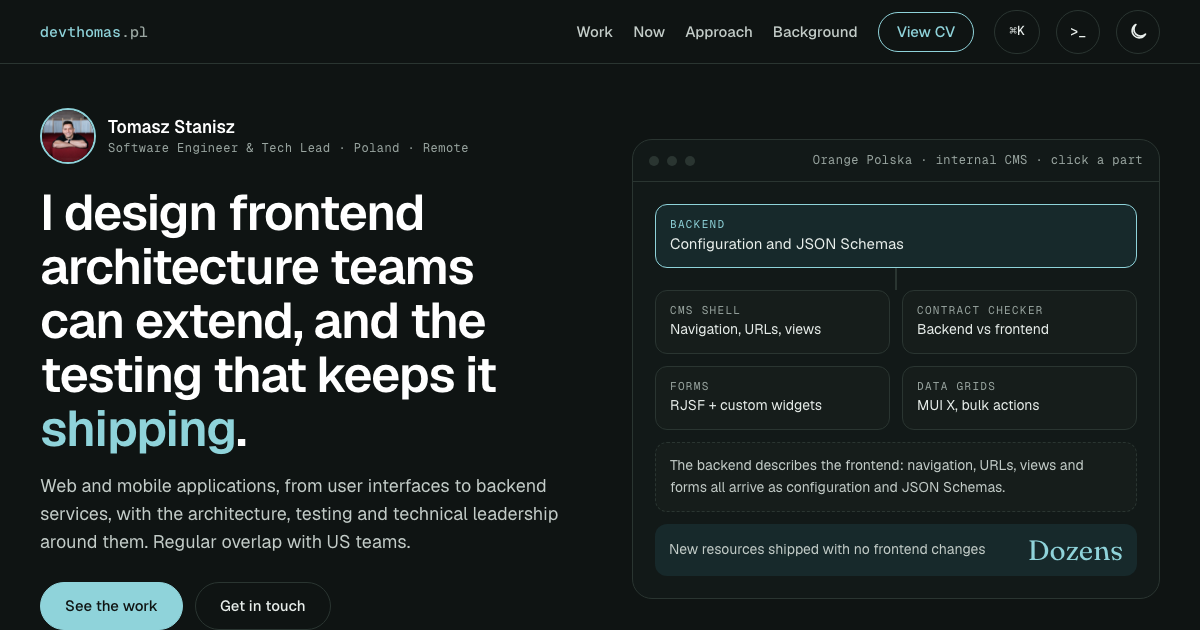
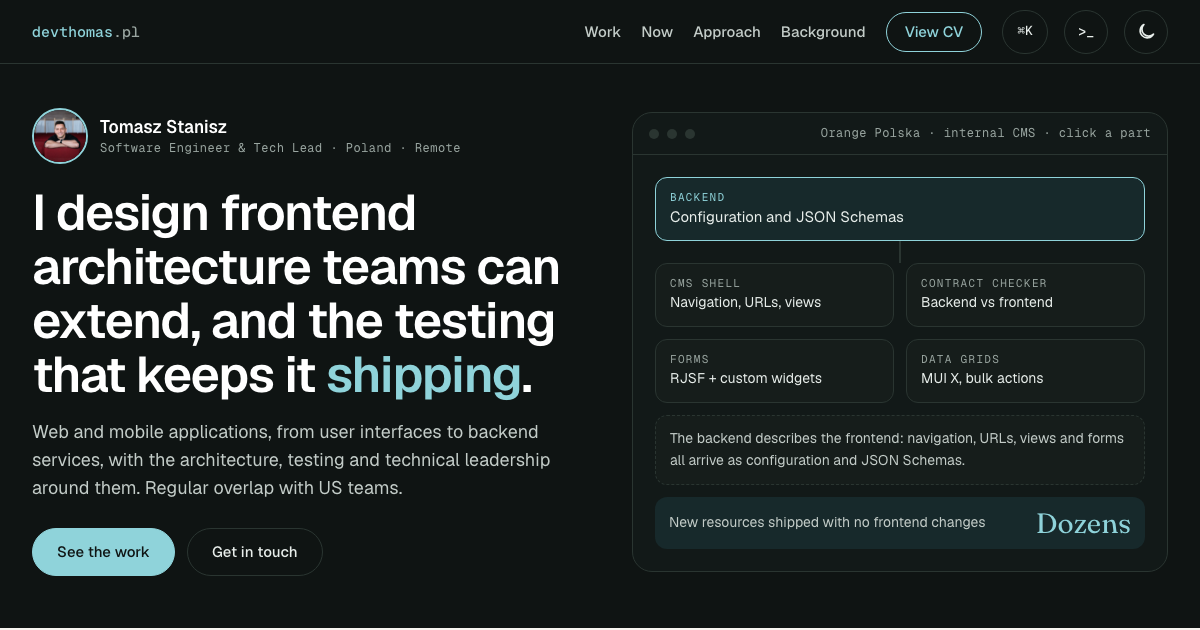
Widen the content to the board's 1200px.
The B+ v2 boards lay content out 1200px wide; at 1120px the hero
headline took an extra line. The site preview image is recaptured.

diff --git a/src/index.css b/src/index.css
@@ -36,7 +36,7 @@
   --radius-control: 999px;
   --radius-surface: 20px;
   --header-height: 64px;
-  --content-width: 1120px;
+  --content-width: 1200px;
   --font:
     var(--font-geist), ui-sans-serif, system-ui, -apple-system,
     BlinkMacSystemFont, "Segoe UI", sans-serif;
